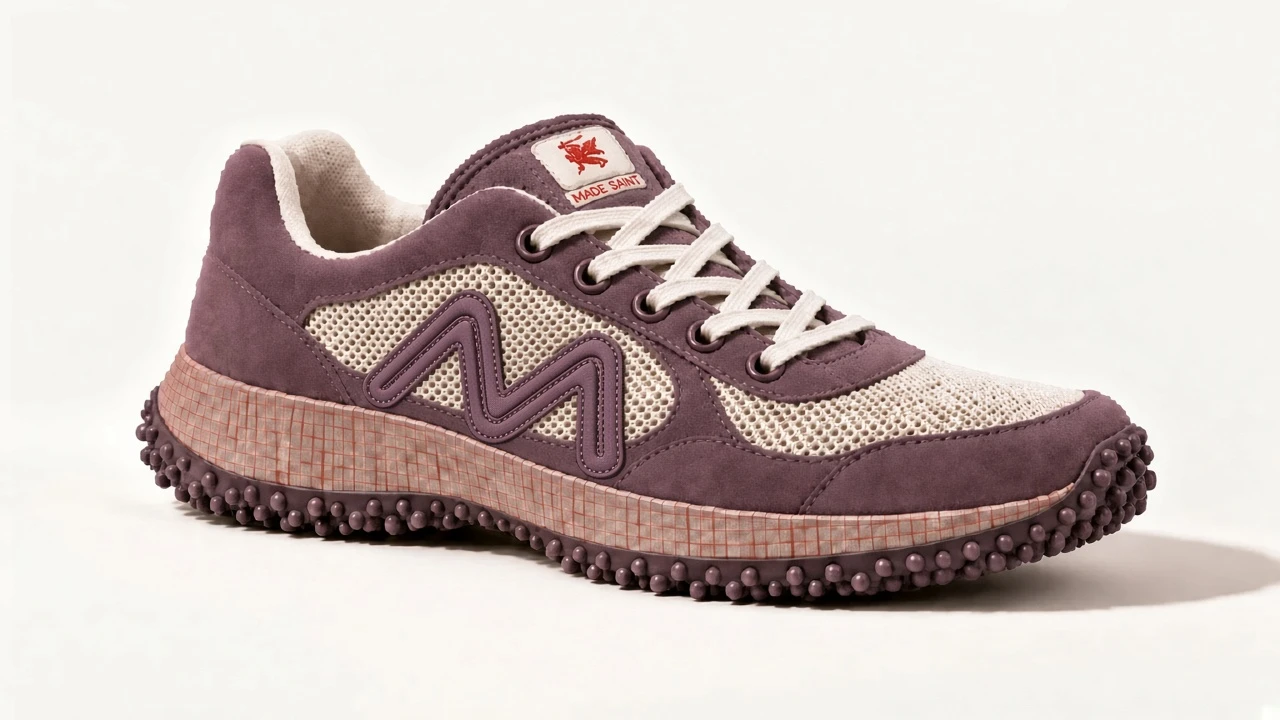
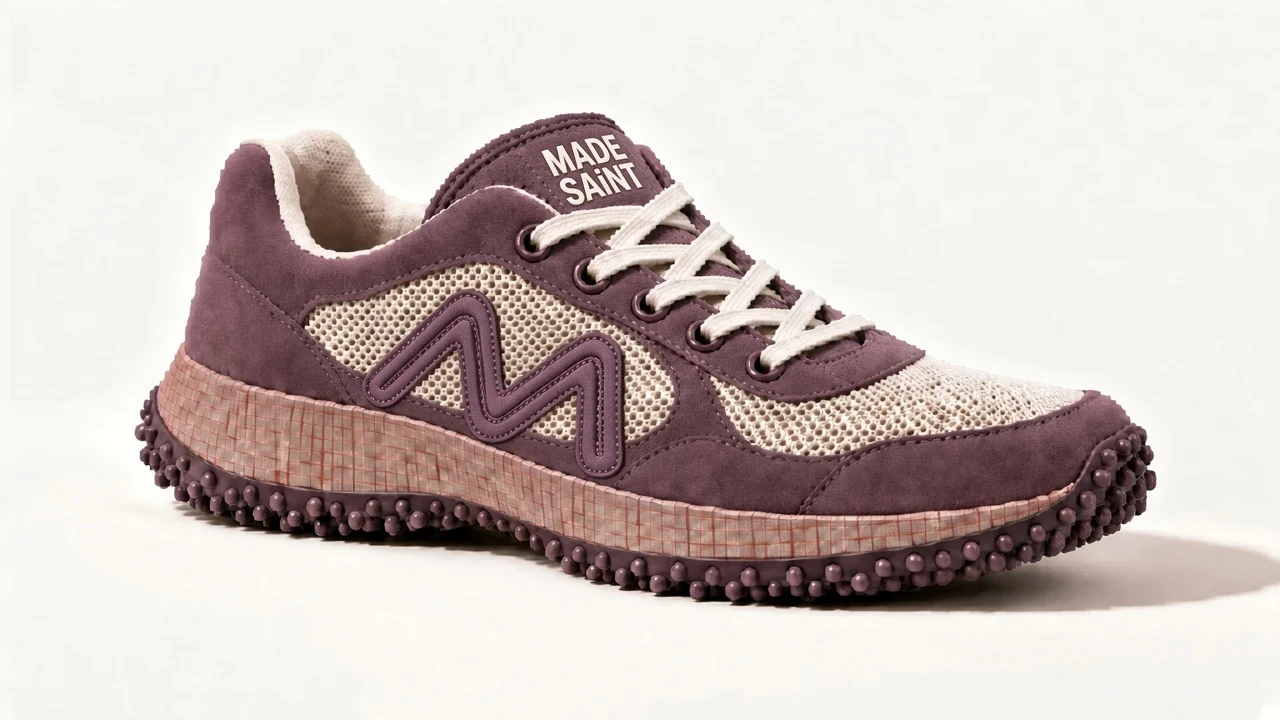
Replace woven dragon tongue label with printed stacked MADE SAiNT wordmark on tongue and sockliner

diff --git a/src/lib/collection.ts b/src/lib/collection.ts
@@ -17,10 +17,10 @@ export const SOLES = catalog.soles as Sole[];
 export const FAMILY_LABEL = catalog.families as Record<string, string>;
 
 export const ROLE_INFO: Record<Role, { label: string; job: string }> = {
-  ground: { label: "Ground", job: "Mesh, lining, laces, label base" },
+  ground: { label: "Ground", job: "Mesh, lining, laces, tongue wordmark" },
   body: { label: "Body", job: "Suede overlays, the shell" },
   depth: { label: "Depth", job: "Outsole, sockliner" },
-  signal: { label: "Signal", job: "Emblem, print accent" },
+  signal: { label: "Signal", job: "Print accent" },
   bridge: { label: "Bridge", job: "Midsole band, logo tab" },
 };
 
@@ -59,23 +59,22 @@ export const STYLES: Record<StyleId, Style> = {
       { id: "eyestay", label: "Eyestay", group: "Upper", texture: "suede", families: SUEDE, sameAs: "mudguard", spec: "6 eyelets per side. Same hide as mudguard." },
       { id: "saddle", label: "Saddle strap", group: "Upper", texture: "suede", families: SUEDE, sameAs: "mudguard", spec: "Diagonal strap splitting the two mesh windows." },
       { id: "quarter", label: "Quarter / heel panel", group: "Upper", texture: "suede", families: SUEDE, sameAs: "mudguard", spec: "Curved front edge. Heel counter sits behind it." },
-      { id: "tongue", label: "Tongue", group: "Upper", texture: "suede", families: SUEDE, sameAs: "mudguard", spec: "Padded. Carries the woven label." },
+      { id: "tongue", label: "Tongue", group: "Upper", texture: "suede", families: SUEDE, sameAs: "mudguard", spec: "Padded. Stacked MADE SAiNT printed straight onto it, no patch." },
       { id: "mesh", label: "Base mesh / windows", group: "Upper", texture: "mesh", families: ["mesh"], spec: "Visible in the front and rear windows. Backed with foam scrim." },
       { id: "lining", label: "Collar lining", group: "Lining", texture: "jersey", families: ["stretch", "mesh", "vegan-suede"], spec: "Padded collar roll and tongue back." },
       { id: "laces", label: "Laces", group: "Trim", texture: "lace", families: ["laces"], spec: "Flat or oval. Length set at sampling." },
       { id: "eyelets", label: "Eyelets", group: "Trim", texture: "metal", families: [], spec: "Hidden-ring or painted metal, matched to the overlay." },
-      { id: "label", label: "Woven tongue label", group: "Decoration", texture: "woven", families: [], spec: "Winged emblem from the founder file. Wordmark MADE SAiNT." },
-      { id: "emblem", label: "Emblem thread", group: "Decoration", texture: "thread", families: [], spec: "Woven into the label. Shared across the collection." },
+      { id: "label", label: "Printed tongue wordmark", group: "Decoration", texture: "print", families: [], spec: "Stacked MADE / SAiNT, lowercase i, screen printed on the tongue. No woven label, no emblem." },
       { id: "midsole", label: "Midsole / foxing band", group: "Bottom", texture: "rubber", families: ["sole-color"], sole: true, spec: "Separate midsole layer on the nub-lug unit." },
       { id: "print", label: "Grid print on band", group: "Decoration", texture: "print", families: [], spec: "Tattersall grid, pad or screen printed on the band." },
       { id: "outsole", label: "Outsole, round nub lugs", group: "Bottom", texture: "rubber", families: ["sole-color"], sole: true, spec: "Bubble lugs wrap up the edge." },
-      { id: "sockliner", label: "Sockliner", group: "Lining", texture: "suede", families: ["vegan-suede", "stretch"], spec: "Topcover printed MADE SAiNT at the heel." },
+      { id: "sockliner", label: "Sockliner", group: "Lining", texture: "suede", families: ["vegan-suede", "stretch"], spec: "Topcover printed with the stacked MADE / SAiNT at the heel, in the tongue colour when the ink would not read." },
       { id: "thread", label: "Stitching thread", group: "Trim", texture: "thread", families: [], spec: "Tone-on-tone to the overlay." },
     ],
     recipes: {
-      hero: { mudguard: "body", eyestay: "body", saddle: "body", quarter: "body", tongue: "body", mesh: "ground", lining: "ground", laces: "ground", eyelets: "body", label: "ground", emblem: "signal", midsole: "bridge", print: "signal", outsole: "depth", sockliner: "depth", thread: "body" },
-      tonal: { mudguard: "body", eyestay: "body", saddle: "body", quarter: "body", tongue: "body", mesh: "bodyTint", lining: "ground", laces: "bodyTint", eyelets: "body", label: "ground", emblem: "signal", midsole: "bodyTint", print: "body", outsole: "bodyShade", sockliner: "bodyShade", thread: "body" },
-      inverse: { mudguard: "depth", eyestay: "depth", saddle: "depth", quarter: "depth", tongue: "depth", mesh: "bodyTint", lining: "ground", laces: "ground", eyelets: "depth", label: "ground", emblem: "signal", midsole: "ground", print: "signal", outsole: "body", sockliner: "depth", thread: "depth" },
+      hero: { mudguard: "body", eyestay: "body", saddle: "body", quarter: "body", tongue: "body", mesh: "ground", lining: "ground", laces: "ground", eyelets: "body", label: "ground", midsole: "bridge", print: "signal", outsole: "depth", sockliner: "depth", thread: "body" },
+      tonal: { mudguard: "body", eyestay: "body", saddle: "body", quarter: "body", tongue: "body", mesh: "bodyTint", lining: "ground", laces: "bodyTint", eyelets: "body", label: "ground", midsole: "bodyTint", print: "body", outsole: "bodyShade", sockliner: "bodyShade", thread: "body" },
+      inverse: { mudguard: "depth", eyestay: "depth", saddle: "depth", quarter: "depth", tongue: "depth", mesh: "bodyTint", lining: "ground", laces: "ground", eyelets: "depth", label: "ground", midsole: "ground", print: "signal", outsole: "body", sockliner: "depth", thread: "depth" },
     },
   },
   mule: {
@@ -103,7 +102,7 @@ export const STYLES: Record<StyleId, Style> = {
 
 export const RECIPES: Record<RecipeId, { label: string; idea: string }> = {
   hero: { label: "Hero", idea: "The concept read: body overlays on a light ground, dark sole, one signal accent." },
-  tonal: { label: "Tonal", idea: "Everything in the body family, light to dark. Signal survives only in the emblem." },
+  tonal: { label: "Tonal", idea: "Everything in the body family, light to dark. No signal accent." },
   inverse: { label: "Inverse", idea: "Depth takes the overlays, the ground goes to the sole edge." },
 };
 

diff --git a/src/components/flats/runner.tsx b/src/components/flats/runner.tsx
@@ -1,13 +1,12 @@
 import { useId } from "react";
 import { STYLES, type Texture } from "@/lib/collection";
-import { mix } from "@/lib/color";
+import { deltaE, mix } from "@/lib/color";
 import { INK, Pattern, cr, type Pt } from "./textures";
 import { MARK_PLACEMENTS, MMark, tonalMark, type MarkPlacementId } from "./mark";
 
 export type RunnerVariant = {
   textures?: Record<string, Texture>;
   grid?: boolean;
-  label?: "woven" | "printed";
   /** Side mark placement. Always tonal, derived from the quarter overlay colour. */
   mark?: MarkPlacementId;
   /** Draws the forefoot flex zone, for placement studies. */
@@ -17,6 +16,10 @@ type Props = { colors: Record<string, string>; view: "lateral" | "top"; paper?: 
 type ViewProps = { uid: string; colors: Record<string, string>; paper: string; variant: RunnerVariant };
 
 const comps = STYLES.runner.components;
+
+/** Sockliner wordmark takes the tongue ink, or the tongue colour when that reads better (cream on a navy sockliner). */
+const sockInk = (colors: Record<string, string>) =>
+  deltaE(colors.label, colors.sockliner) >= deltaE(colors.tongue, colors.sockliner) ? colors.label : colors.tongue;
 
 function Defs({ uid, colors, variant }: { uid: string; colors: Record<string, string>; variant: RunnerVariant }) {
   const grid = variant.grid ?? true;
@@ -90,20 +93,10 @@ function Lateral({ uid, colors, paper, variant }: ViewProps) {
 
       <path d={L_MIDSOLE} fill={f("midsole")} stroke={INK} strokeWidth="1" />
 
-      {variant.label === "printed" ? (
-        <g transform="rotate(-9 297 76)" fill={colors.label} fontFamily="Arial, sans-serif" fontWeight="700" textAnchor="middle">
-          <text x="297.5" y="74" fontSize="6.2">MADE</text>
-          <text x="297.5" y="81.5" fontSize="6.2">SAiNT</text>
-        </g>
-      ) : (
-        <g transform="rotate(-9 297 76)">
-          <rect x="284" y="66" width="27" height="20" rx="1.5" fill={colors.label} stroke={INK} strokeWidth="0.7" />
-          <rect x="293.5" y="68.5" width="8" height="8" rx="1" fill={colors.emblem} />
-          <text x="297.5" y="82.6" textAnchor="middle" fontSize="3.6" fontWeight="700" fill={colors.emblem} fontFamily="Arial, sans-serif">
-            MADE SAiNT
-          </text>
-        </g>
-      )}
+      <g transform="rotate(-9 297 76)" fill={colors.label} fontFamily="Arial, sans-serif" fontWeight="700" textAnchor="middle">
+        <text x="297.5" y="74" fontSize="6.2">MADE</text>
+        <text x="297.5" y="81.5" fontSize="6.2">SAiNT</text>
+      </g>
 
       {L_EYELETS.map(([x, y], i) => (
         <g key={i}>
@@ -216,24 +209,15 @@ function Top({ uid, colors, paper, variant }: ViewProps) {
       </g>
       <path d={T_UPPER} fill="none" stroke={INK} strokeWidth="1.1" />
 
-      <text x="140" y="128.5" textAnchor="middle" fontSize="9" letterSpacing="1.6" fill={variant.label === "printed" ? colors.label : mix(colors.sockliner, colors.lining, 0.7)} fontFamily={variant.label === "printed" ? "Arial, sans-serif" : "Georgia, serif"} fontWeight={variant.label === "printed" ? 700 : 400}>
-        MADE SAiNT
-      </text>
+      <g fill={sockInk(colors)} fontFamily="Arial, sans-serif" fontWeight="700" textAnchor="middle" transform="rotate(90 112 125)">
+        <text x="112" y="121" fontSize="9">MADE</text>
+        <text x="112" y="131" fontSize="9">SAiNT</text>
+      </g>
 
-      {variant.label === "printed" ? (
-        <g fill={colors.label} fontFamily="Arial, sans-serif" fontWeight="700" textAnchor="middle" transform="rotate(90 229 125)">
-          <text x="229" y="122" fontSize="8">MADE</text>
-          <text x="229" y="131" fontSize="8">SAiNT</text>
-        </g>
-      ) : (
-        <>
-          <rect x="214" y="113" width="28" height="24" rx="1.5" fill={colors.label} stroke={INK} strokeWidth="0.7" />
-          <rect x="224" y="116" width="8" height="8" rx="1" fill={colors.emblem} />
-          <text x="228" y="132" textAnchor="middle" fontSize="3.8" fontWeight="700" fill={colors.emblem} fontFamily="Arial, sans-serif">
-            MADE SAiNT
-          </text>
-        </>
-      )}
+      <g fill={colors.label} fontFamily="Arial, sans-serif" fontWeight="700" textAnchor="middle" transform="rotate(90 229 125)">
+        <text x="229" y="122" fontSize="8">MADE</text>
+        <text x="229" y="131" fontSize="8">SAiNT</text>
+      </g>
 
       {T_EYELET_X.map((x) => (
         <g key={x}>

diff --git a/src/lib/stories.ts b/src/lib/stories.ts
@@ -10,7 +10,6 @@ export type Story = {
   read: string;
   /** Components dropped from the locked flat in this story. */
   omit: string[];
-  label: "printed" | "woven";
   parts: Record<string, StoryPart>;
   flags?: string[];
 };
@@ -30,8 +29,7 @@ export const STORIES: Story[] = [
     name: "Navy intrecciato",
     image: "/stories/navy-intrecciato.webp",
     read: "Woven navy leather on the toe, sides and heel; smooth navy eyestay and tongue; sand perforated mesh; navy jersey lining; navy nub sole.",
-    omit: ["print", "emblem"],
-    label: "printed",
+    omit: ["print"],
     parts: {
       ...overlays(
         { hex: "#2c323d", texture: "intrecciato", families: ["leather-exotic"], pin: WOVEN_PIN, material: "Woven leather (intrecciato)" },
@@ -54,8 +52,7 @@ export const STORIES: Story[] = [
     name: "Espresso / oxblood",
     image: "/stories/espresso-oxblood.webp",
     read: "Espresso suede overlays, black mesh, oxblood terry lining and oxblood print, dark brown nub sole.",
-    omit: ["print", "emblem"],
-    label: "printed",
+    omit: ["print"],
     parts: {
       ...overlays({ hex: "#3a2e28", texture: "suede", families: ["suede", "vegan-suede"], material: "Suede" }),
       mesh: { hex: "#1b1b1b", texture: "mesh", material: "Air mesh" },
@@ -74,8 +71,7 @@ export const STORIES: Story[] = [
     name: "Graphite tonal",
     image: "/stories/graphite-tonal.webp",
     read: "Charcoal snake-embossed suede, black mesh, black lining, tonal grey print, black nub sole.",
-    omit: ["print", "emblem"],
-    label: "printed",
+    omit: ["print"],
     parts: {
       ...overlays({ hex: "#404042", texture: "emboss", families: ["leather-exotic", "vegan-exotic"], material: "Embossed suede" }),
       mesh: { hex: "#252527", texture: "mesh", material: "Air mesh" },
@@ -94,8 +90,7 @@ export const STORIES: Story[] = [
     name: "Chalk / navy",
     image: "/stories/chalk-navy.webp",
     read: "White bouclé-suede overlays, navy canvas windows, white lining and laces, navy print, navy-black nub sole.",
-    omit: ["print", "emblem"],
-    label: "printed",
+    omit: ["print"],
     parts: {
       ...overlays({ hex: "#e4e3e3", texture: "boucle", families: ["pile", "felt"], pin: BOUCLE_PIN, material: "Bouclé / terry" }),
       mesh: { hex: "#1c2433", texture: "canvas", families: ["canvas"], material: "Canvas" },
@@ -115,8 +110,7 @@ export const STORIES: Story[] = [
     name: "Navy weave / rust",
     image: "/stories/navy-weave-rust.webp",
     read: "Woven navy leather throughout the overlays, rust canvas windows, grey lining, rust print, navy nub sole.",
-    omit: ["print", "emblem"],
-    label: "printed",
+    omit: ["print"],
     parts: {
       ...overlays({ hex: "#262f36", texture: "intrecciato", families: ["leather-exotic"], pin: WOVEN_PIN, material: "Woven leather (intrecciato)" }),
       mesh: { hex: "#6e3521", texture: "canvas", families: ["canvas"], material: "Canvas" },
@@ -136,8 +130,7 @@ export const STORIES: Story[] = [
     name: "Washed denim",
     image: "/stories/washed-denim.webp",
     read: "Light washed denim overlays, raw indigo denim windows, navy lining, light denim laces, navy print, black nub sole.",
-    omit: ["print", "emblem"],
-    label: "printed",
+    omit: ["print"],
     parts: {
       ...overlays({ hex: "#7e97ab", texture: "denim", families: ["canvas"], pin: DENIM_PIN, material: "Washed denim" }),
       mesh: { hex: "#1d2534", texture: "denim", families: ["canvas"], pin: DENIM_PIN, material: "Raw denim" },

diff --git a/src/app/studio/page.tsx b/src/app/studio/page.tsx
@@ -251,7 +251,7 @@ export default function Studio() {
             <div className="mt-3 flex flex-wrap items-center gap-3 text-[12px] text-[#22201d]/65">
               <span className="flex items-center gap-1.5"><span className="size-3.5 rounded-sm border border-black/10" style={{ background: tones.bodyTint }} /> body tint {tones.bodyTint}</span>
               <span className="flex items-center gap-1.5"><span className="size-3.5 rounded-sm border border-black/10" style={{ background: tones.bodyShade }} /> body shade {tones.bodyShade}</span>
-              <span>Lining and emblem stay fixed across all three looks.</span>
+              <span>Lining and the printed MADE SAiNT tongue wordmark stay fixed across all three looks.</span>
             </div>
           </div>
         </section>
@@ -450,7 +450,7 @@ export default function Studio() {
             <li>Card colors are measured from MEES photos on Google Drive. Lighting shifts them, so every ΔE is a starting point. Confirm against physical swatch cards.</li>
             <li>Texture families are a visual read of each card. Confirm the article, weight, and minimum with MEES before costing.</li>
             <li>Sole compound colors are pigment-matched by the sole maker. The verdict there tells you how far the target sits from their standard colors.</li>
-            <li>The winged emblem comes from the founder file. The flats show a placeholder block in its position and color only.</li>
+            <li>The tongue carries a stacked MADE / SAiNT printed straight onto the leather, repeated on the sockliner. There is no woven label or emblem.</li>
             <li>Wordmark is MADE SAiNT with a lowercase i. The runner concept image shows an uppercase I. The flats follow the brand rule.</li>
             <li>Duty on footwear into the US depends on the HTS classification of the upper (textile, leather, or synthetic). The 20% default is a placeholder.</li>
             <li>No style codes or SKUs are assigned here. Look 03 reuses the runner flat until a third locked flat is supplied.</li>

diff --git a/src/components/studio/look.tsx b/src/components/studio/look.tsx
@@ -37,7 +37,7 @@ export function Segmented<T extends string>({ value, options, onChange, label }:
 
 export function variantOf(r: SlotResult): RunnerVariant {
   const mark = { mark: "midfoot" as const };
-  return r.storyData ? { textures: r.textures, grid: false, label: r.storyData.label, ...mark } : mark;
+  return r.storyData ? { textures: r.textures, grid: false, ...mark } : mark;
 }
 
 export function Flat({ style, colors, view, variant }: { style: StyleId; colors: Record<string, string>; view: "lateral" | "top"; variant?: RunnerVariant }) {
@@ -208,7 +208,7 @@ export function LookCard({
       </div>
       {story && (
         <div className="space-y-1 border-t border-[#22201d]/10 px-4 py-2.5 text-[12px] text-[#22201d]/75">
-          <p>Changes to the locked flat: woven label becomes a printed MADE SAiNT on the tongue and sockliner; the grid band is dropped for a one-color sole.</p>
+          <p>Changes to the locked flat: the grid band is dropped for a one-color sole.</p>
           {story.flags?.map((f) => (
             <p key={f} className="text-[#a2362f]">{f}</p>
           ))}

diff --git a/src/lib/chat.ts b/src/lib/chat.ts
@@ -92,7 +92,7 @@ function lookCostText(ctx: ChatContext, i: number) {
 const COMPONENT_WORDS: Record<string, string[]> = {
   mudguard: ["mudguard", "toe"], eyestay: ["eyestay"], saddle: ["saddle", "strap"], quarter: ["quarter", "heel"],
   tongue: ["tongue"], mesh: ["mesh", "window"], lining: ["lining", "collar lining"], laces: ["lace"], eyelets: ["eyelet"],
-  label: ["label"], emblem: ["emblem"], midsole: ["midsole", "foxing", "band"], print: ["print", "grid"], outsole: ["outsole", "sole", "lug"],
+  label: ["label", "wordmark", "tongue print"], midsole: ["midsole", "foxing", "band"], print: ["print", "grid"], outsole: ["outsole", "sole", "lug"],
   sockliner: ["sockliner", "insole"], thread: ["thread", "stitch"], shell: ["shell", "upper"], collar: ["collar"], grid: ["grid"],
   tab: ["tab", "logo tab"], footbed: ["footbed", "insole"],
 };

diff --git a/src/app/brand/page.tsx b/src/app/brand/page.tsx
@@ -188,7 +188,7 @@ export default function BrandPage() {
                       {[r.colors.quarter, t.fill, t.keyline].map((h) => <span key={h} className="size-4 rounded-sm border border-black/15" style={{ background: h }} title={h} />)}
                     </span>
                   </div>
-                  <RunnerFlat colors={r.colors} view="lateral" paper={PAPER} variant={{ textures: r.textures, grid: false, label: r.storyData?.label, mark: "midfoot" }} className="mt-2 [&_svg]:h-auto [&_svg]:w-full" />
+                  <RunnerFlat colors={r.colors} view="lateral" paper={PAPER} variant={{ textures: r.textures, grid: false, mark: "midfoot" }} className="mt-2 [&_svg]:h-auto [&_svg]:w-full" />
                 </div>
               );
             })}

diff --git a/src/lib/costing.ts b/src/lib/costing.ts
@@ -60,7 +60,7 @@ const USAGE: Record<string, number> = {
 
 /** Flat € per pair for trims and decoration. Estimates. */
 const FLAT: Record<string, number> = {
-  "runner.laces": 0.35, "runner.eyelets": 0.6, "runner.label": 0.5, "runner.emblem": 0, "runner.print": 0.8, "runner.thread": 0.2,
+  "runner.laces": 0.35, "runner.eyelets": 0.6, "runner.label": 0.5, "runner.print": 0.8, "runner.thread": 0.2,
   "runner.midsole": 2, "mule.grid": 1.2, "mule.thread": 0.15,
 };
 

diff --git a/README.md b/README.md
@@ -69,8 +69,8 @@ The local site shows the eight sheets and links the PDF, the bill of materials, 
 Feed a palette and get a three-look collection on the locked flats, with every component matched to a real MEES material card.
 
 - **Palette.** Up to 7 hex colors, typed, picked, or extracted from an image. Share one with `/studio?p=e4dccd,7f5f65,3d2c31`.
-- **Roles.** Colors are assigned to Ground (mesh, lining, laces), Body (overlays, shell), Depth (outsole, sockliner), Signal (emblem, print), and Bridge (midsole band, logo tab). Missing roles are derived and marked.
-- **Looks.** Each look picks a locked flat (bubble-lug runner or Trail Mule) and a recipe (Hero, Tonal, Inverse). Lining and emblem stay fixed across the collection.
+- **Roles.** Colors are assigned to Ground (mesh, lining, laces), Body (overlays, shell), Depth (outsole, sockliner), Signal (print accent), and Bridge (midsole band, logo tab). Missing roles are derived and marked.
+- **Looks.** Each look picks a locked flat (bubble-lug runner or Trail Mule) and a recipe (Hero, Tonal, Inverse). Lining and the printed MADE SAiNT tongue wordmark stay fixed across the collection.
 - **Sourcing.** Each component searches only the MEES families that make sense for it, picks the card with the closest swatch (OKLab ΔE ×100), and prefers cards already used elsewhere in the collection. Under 2.5 is on card, 2.5–8 is a lab dip, over 8 is dye to target. Components outside the MEES library are listed as trims to specify.
 - **Colorway stories.** Six runner colorways from the founder renders (navy intrecciato, espresso/oxblood, graphite tonal, chalk/navy, navy weave/rust, washed denim). Each fixes exact colors and constructions, pins construction-specific MEES cards where they exist, prints the wordmark on the tongue, and drops the grid band. Share a lineup with `/studio?looks=navy-intrecciato,chalk-navy,washed-denim`.
 - **Cost.** Per-pair build-up (materials, trims, sole, make, packaging, freight, duty, development) to retail and margin, per look and for the collection. Per-pair rates are estimates until MEES quotes.
